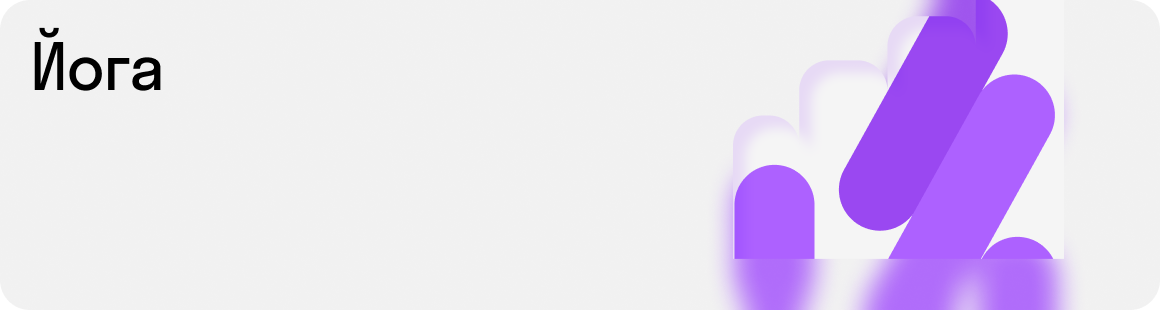
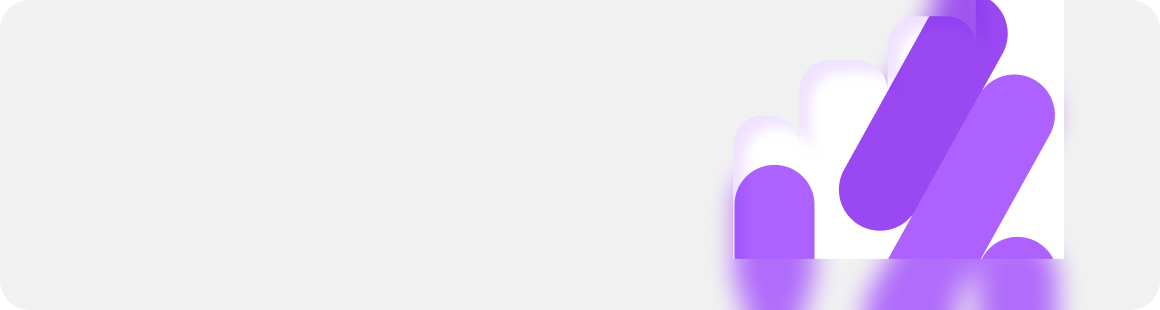
Сверстан заголовок страницы, добавлена новая картинка.

Changed region(s): [[0.031, 0.0871, 0.1552, 0.2903]]

diff --git a/src/pages/course-page/Course.styles.js b/src/pages/course-page/Course.styles.js
@@ -5,11 +5,24 @@ export const CourseInfoPage = styled.main`
   margin-left: calc(50% - 580px);
   margin-right: calc(50% - 580px);
 `
+export const CourseTop = styled.div`
+  position: relative;
+  margin-top: 75px;
+`
 
 export const CourseImg = styled.img`
-  margin-top: 75px;
   width: 1160px;
   height: 310px;
+`
+export const CourseTitle = styled.p`
+  position: absolute;
+  color: #000;
+  font-variant-numeric: lining-nums proportional-nums;
+  font-size: 64px;
+  line-height: 72px;
+  letter-spacing: -0.8px;
+  top: 30px;
+  left: 30px;
 `
 
 export const CourseAdvantages = styled.section``

diff --git a/src/pages/course-page/Сourse.jsx b/src/pages/course-page/Сourse.jsx
@@ -7,7 +7,10 @@ export const Сourse = () => {
 
   return (
     <S.CourseInfoPage>
-      <S.CourseImg src="/img/yoga.png" alt="title" />
+      <S.CourseTop>
+        <S.CourseImg src="/img/yoga.png" alt="yoga" />
+        <S.CourseTitle>Йога</S.CourseTitle>
+      </S.CourseTop>
       <S.CourseAdvantages>
         <S.CourseHeaders>Подойдет для вас, если:</S.CourseHeaders>
         <S.ListAdvantages>
